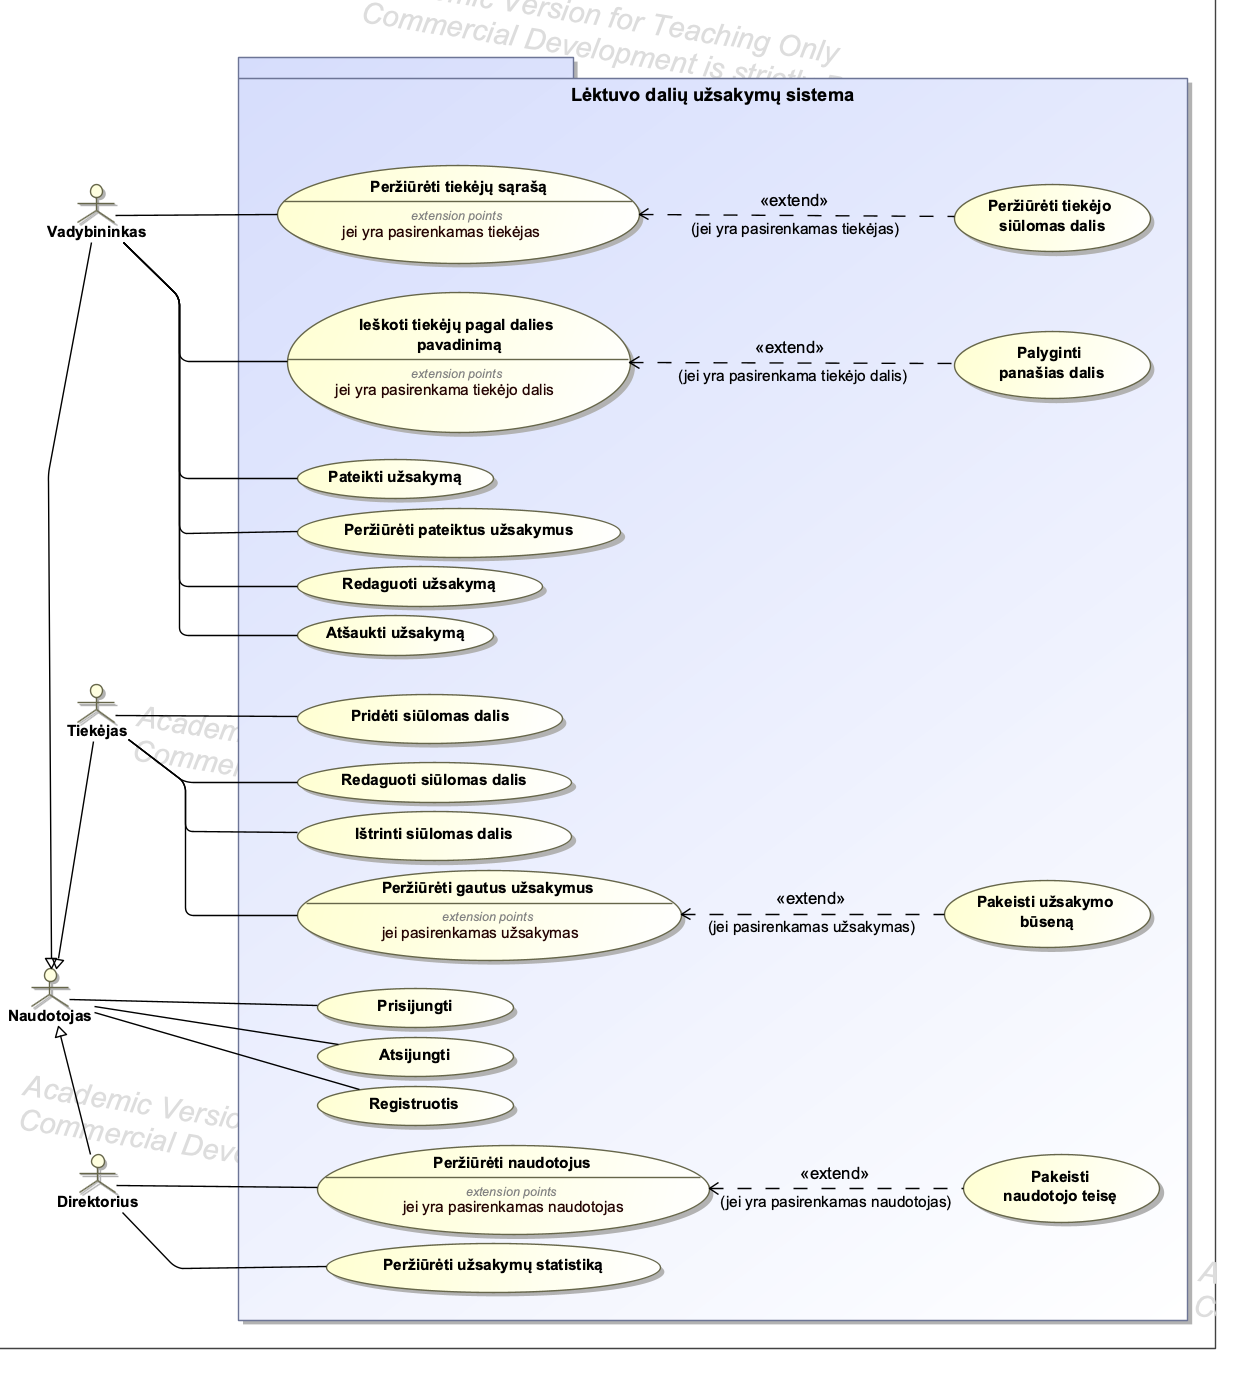
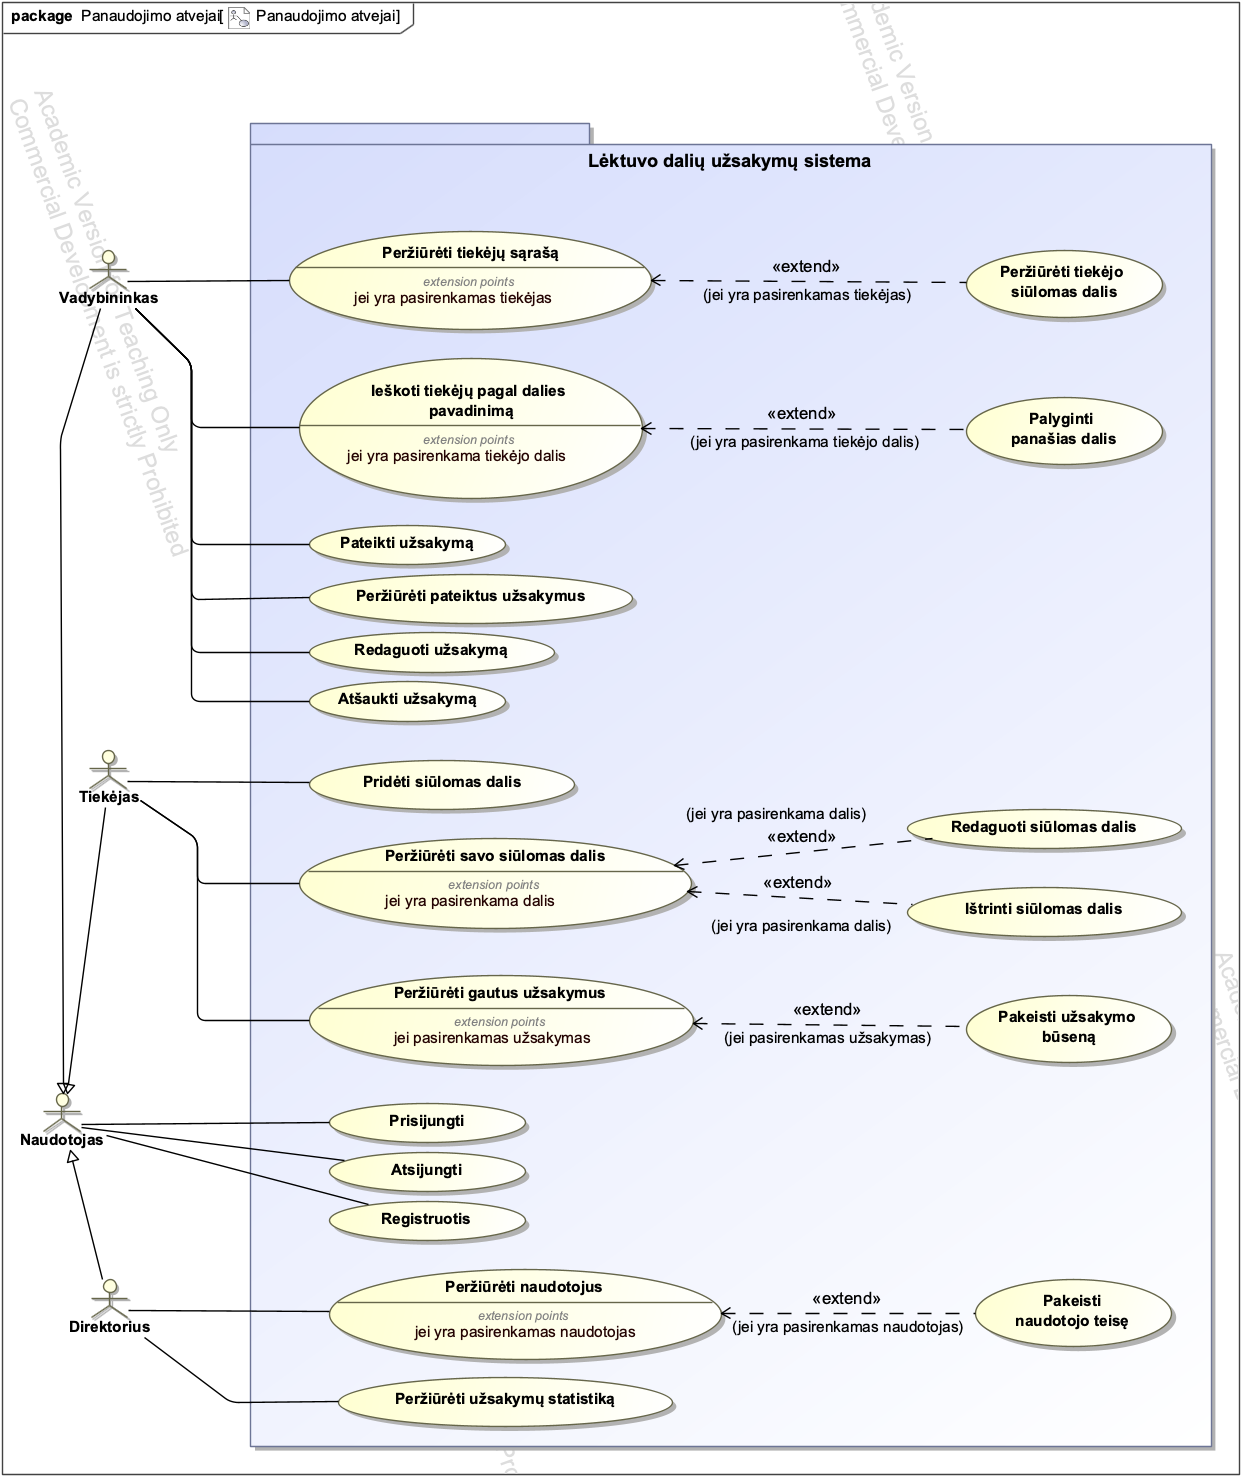
daliu paieska puslapis

diff --git a/vadybininkas/daliu_paieska.php b/vadybininkas/daliu_paieska.php
@@ -1,0 +1,213 @@
+<?php
+require __DIR__ . '/../config/db.php';
+require __DIR__ . '/../includes/auth.php';
+
+checkRole('Vadybininkas');
+
+$q       = trim($_GET['q'] ?? '');
+$dalisId = (int)($_GET['dalis'] ?? 0);
+
+$rikiavimai = [
+    'kaina'       => 'p.kaina ASC',
+    'pavadinimas' => 'p.pavadinimas ASC',
+    'gamintojas'  => 'p.gamintojas ASC, p.kaina ASC',
+    'modelis'     => 'p.modelis ASC, p.kaina ASC',
+];
+$rik = array_key_exists($_GET['rik'] ?? '', $rikiavimai) ? $_GET['rik'] : 'kaina';
+
+$laukai = 'p.prekes_id, p.pavadinimas, p.gamintojas, p.modelis, p.kaina, p.kiekis, p.tiekejo_id,
+           COALESCE(n.pavadinimas, CONCAT(n.vardas, " ", n.pavarde)) AS tiekejas';
+
+function likeReiksme(string $s): string {
+    return '%' . addcslashes($s, '%_\\') . '%';
+}
+
+// --- Paieška arba atsitiktinės dalys ---
+if ($q !== '') {
+    $stmt = $pdo->prepare(
+        "SELECT $laukai
+         FROM preke p JOIN naudotojas n ON n.naudotojo_id = p.tiekejo_id
+         WHERE p.pavadinimas LIKE :q1 OR p.gamintojas LIKE :q2 OR p.modelis LIKE :q3
+         ORDER BY {$rikiavimai[$rik]}"
+    );
+    $like = likeReiksme($q);
+    $stmt->execute(['q1' => $like, 'q2' => $like, 'q3' => $like]);
+    $dalys = $stmt->fetchAll();
+} else {
+    $dalys = $pdo->query(
+        "SELECT $laukai
+         FROM preke p JOIN naudotojas n ON n.naudotojo_id = p.tiekejo_id
+         ORDER BY RAND() LIMIT 12"
+    )->fetchAll();
+}
+
+// --- «extend» Palyginti panašias dalis ---
+$pasirinkta = null;
+$panasios   = [];
+
+if ($dalisId) {
+    $stmt = $pdo->prepare("SELECT $laukai FROM preke p JOIN naudotojas n ON n.naudotojo_id = p.tiekejo_id WHERE p.prekes_id = ?");
+    $stmt->execute([$dalisId]);
+    $pasirinkta = $stmt->fetch() ?: null;
+}
+
+if ($pasirinkta) {
+    // Pavadinimo žodžiai (bent 3 raidės) – kiekvienas sutapęs žodis didina panašumą
+    $zodziai = array_unique(array_filter(
+        preg_split('/[^\p{L}\p{N}]+/u', mb_strtolower($pasirinkta['pavadinimas'])),
+        fn($z) => mb_strlen($z) >= 3
+    ));
+
+    $balas  = [];
+    $params = [];
+    foreach (array_values($zodziai) as $i => $z) {
+        $balas[]        = "(p.pavadinimas LIKE :z$i)";
+        $params["z$i"] = likeReiksme($z);
+    }
+    // Tas pats modelis ar gamintojas – stiprus panašumo požymis
+    // (COALESCE, nes palyginimas su NULL grąžintų NULL ir „sugadintų“ visą sumą)
+    $balas[] = 'COALESCE(p.modelis = :modelis, 0) * 3';
+    $balas[] = 'COALESCE(p.gamintojas = :gamintojas, 0)';
+    $params['modelis']    = $pasirinkta['modelis'];
+    $params['gamintojas'] = $pasirinkta['gamintojas'];
+    $params['tiekejas']   = $pasirinkta['tiekejo_id'];
+
+    $balasSql = implode(' + ', $balas);
+    $stmt = $pdo->prepare(
+        "SELECT * FROM (
+             SELECT $laukai, ($balasSql) AS panasumas
+             FROM preke p JOIN naudotojas n ON n.naudotojo_id = p.tiekejo_id
+             WHERE p.tiekejo_id <> :tiekejas
+         ) x
+         WHERE panasumas > 0
+         ORDER BY " . str_replace('p.', 'x.', $rikiavimai[$rik]) . "
+         LIMIT 20"
+    );
+    $stmt->execute($params);
+    $panasios = $stmt->fetchAll();
+}
+
+// Pagalbinės funkcijos
+function nuoroda(array $keisti): string {
+    $p = array_merge(['q' => $_GET['q'] ?? null, 'rik' => $_GET['rik'] ?? null, 'dalis' => $_GET['dalis'] ?? null], $keisti);
+    return '?' . http_build_query(array_filter($p, fn($v) => $v !== null && $v !== ''));
+}
+function kaina($k): string {
+    return number_format((float)$k, 2, ',', ' ') . ' €';
+}
+function kiekis($k): string {
+    return (int)$k > 0 ? (int)$k . ' vnt.' : '<span class="text-red-600">Nėra</span>';
+}
+
+$puslapioPavadinimas = 'Dalių paieška';
+require __DIR__ . '/../includes/header.php';
+?>
+
+<h1 class="text-2xl font-semibold mb-6">Dalių paieška</h1>
+
+<!-- Paieškos juosta -->
+<form method="get" class="mb-8 flex flex-col sm:flex-row gap-3">
+    <input type="search" name="q" value="<?= htmlspecialchars($q) ?>" autofocus
+           placeholder="Įveskite dalies pavadinimą, gamintoją ar modelį…"
+           class="flex-1 rounded-lg border border-slate-300 bg-white px-4 py-2.5 focus:outline-none focus:ring-2 focus:ring-sky-500">
+    <select name="rik" class="rounded-lg border border-slate-300 bg-white px-3 py-2.5">
+        <option value="kaina" <?= $rik === 'kaina' ? 'selected' : '' ?>>Pigiausios pirma</option>
+        <option value="pavadinimas" <?= $rik === 'pavadinimas' ? 'selected' : '' ?>>Pagal pavadinimą</option>
+        <option value="gamintojas" <?= $rik === 'gamintojas' ? 'selected' : '' ?>>Pagal gamintoją</option>
+        <option value="modelis" <?= $rik === 'modelis' ? 'selected' : '' ?>>Pagal modelį</option>
+    </select>
+    <button class="rounded-lg bg-sky-600 px-6 py-2.5 font-medium text-white hover:bg-sky-700">Ieškoti</button>
+</form>
+
+<?php if ($dalisId && !$pasirinkta): ?>
+    <div class="mb-6 rounded-lg bg-red-50 border border-red-200 px-4 py-3 text-sm text-red-700">Tokia dalis nerasta.</div>
+<?php endif; ?>
+
+<!-- Palyginimas -->
+<?php if ($pasirinkta): ?>
+    <section class="mb-10 bg-white rounded-xl shadow-sm border border-sky-200">
+        <div class="flex items-start justify-between gap-4 px-5 py-4 border-b border-slate-200">
+            <div>
+                <h2 class="text-lg font-semibold">Palyginimas: <?= htmlspecialchars($pasirinkta['pavadinimas']) ?></h2>
+                <p class="text-sm text-slate-500">Pasirinkta dalis ir panašios kitų tiekėjų dalys</p>
+            </div>
+            <a href="<?= htmlspecialchars(nuoroda(['dalis' => null])) ?>" class="text-sm text-slate-500 hover:text-slate-800">✕ Uždaryti</a>
+        </div>
+
+        <?php
+        $visos   = array_merge([$pasirinkta], $panasios);
+        $pigiausia = min(array_column($visos, 'kaina'));
+        ?>
+        <div class="overflow-x-auto">
+            <table class="w-full text-sm">
+                <thead class="bg-slate-50 text-left text-slate-600">
+                    <tr>
+                        <th class="px-5 py-3 font-medium">Pavadinimas</th>
+                        <th class="px-5 py-3 font-medium">Tiekėjas</th>
+                        <th class="px-5 py-3 font-medium">Gamintojas</th>
+                        <th class="px-5 py-3 font-medium">Modelis</th>
+                        <th class="px-5 py-3 font-medium text-right">Kaina</th>
+                        <th class="px-5 py-3 font-medium text-right">Sandėlyje</th>
+                    </tr>
+                </thead>
+                <tbody class="divide-y divide-slate-100">
+                    <?php foreach ($visos as $i => $d): ?>
+                        <tr class="<?= $i === 0 ? 'bg-sky-50' : 'hover:bg-slate-50' ?>">
+                            <td class="px-5 py-3 font-medium">
+                                <?= htmlspecialchars($d['pavadinimas']) ?>
+                                <?php if ($i === 0): ?><span class="ml-1 rounded bg-sky-600 px-1.5 py-0.5 text-xs text-white">pasirinkta</span><?php endif; ?>
+                            </td>
+                            <td class="px-5 py-3">
+                                <a href="tiekejai.php?id=<?= (int)$d['tiekejo_id'] ?>" class="text-sky-700 hover:underline"><?= htmlspecialchars($d['tiekejas']) ?></a>
+                            </td>
+                            <td class="px-5 py-3"><?= htmlspecialchars($d['gamintojas'] ?? '—') ?></td>
+                            <td class="px-5 py-3"><?= htmlspecialchars($d['modelis'] ?? '—') ?></td>
+                            <td class="px-5 py-3 text-right whitespace-nowrap <?= (float)$d['kaina'] == (float)$pigiausia && count($visos) > 1 ? 'text-green-700 font-semibold' : '' ?>">
+                                <?= kaina($d['kaina']) ?>
+                            </td>
+                            <td class="px-5 py-3 text-right whitespace-nowrap"><?= kiekis($d['kiekis']) ?></td>
+                        </tr>
+                    <?php endforeach; ?>
+                </tbody>
+            </table>
+        </div>
+
+        <?php if (!$panasios): ?>
+            <p class="px-5 py-4 text-sm text-slate-500 border-t border-slate-100">Kiti tiekėjai panašių dalių nesiūlo.</p>
+        <?php endif; ?>
+    </section>
+<?php endif; ?>
+
+<!-- Rezultatai -->
+<h2 class="text-sm font-medium uppercase tracking-wide text-slate-500 mb-3">
+    <?= $q !== '' ? 'Rasta dalių: ' . count($dalys) : 'Atsitiktinės dalys' ?>
+</h2>
+
+<?php if (!$dalys): ?>
+    <div class="rounded-xl border-2 border-dashed border-slate-300 p-10 text-center text-slate-500">
+        <?= $q !== '' ? 'Pagal „' . htmlspecialchars($q) . '“ nieko nerasta.' : 'Dalių sistemoje kol kas nėra.' ?>
+    </div>
+<?php else: ?>
+    <div class="grid gap-4 sm:grid-cols-2 lg:grid-cols-3">
+        <?php foreach ($dalys as $d): ?>
+            <?php $aktyvi = $pasirinkta && (int)$d['prekes_id'] === (int)$pasirinkta['prekes_id']; ?>
+            <a href="<?= htmlspecialchars(nuoroda(['dalis' => (int)$d['prekes_id']])) ?>"
+               class="block rounded-xl bg-white p-5 shadow-sm border transition <?= $aktyvi ? 'border-sky-500 ring-2 ring-sky-200' : 'border-slate-200 hover:border-sky-400 hover:shadow' ?>">
+                <div class="flex items-start justify-between gap-3">
+                    <h3 class="font-semibold text-slate-800"><?= htmlspecialchars($d['pavadinimas']) ?></h3>
+                    <span class="shrink-0 font-semibold text-sky-700"><?= kaina($d['kaina']) ?></span>
+                </div>
+                <p class="mt-1 text-sm text-slate-500">
+                    <?= htmlspecialchars($d['gamintojas'] ?? '—') ?> · <?= htmlspecialchars($d['modelis'] ?? '—') ?>
+                </p>
+                <div class="mt-3 flex items-center justify-between text-sm">
+                    <span class="text-slate-600"><?= htmlspecialchars($d['tiekejas']) ?></span>
+                    <span><?= kiekis($d['kiekis']) ?></span>
+                </div>
+                <p class="mt-3 text-xs text-sky-600">Palyginti su kitais tiekėjais →</p>
+            </a>
+        <?php endforeach; ?>
+    </div>
+<?php endif; ?>
+
+<?php require __DIR__ . '/../includes/footer.php'; ?>

diff --git a/index.php b/index.php
@@ -7,7 +7,7 @@ checkRole(); // bet kuris prisijungęs naudotojas
 $korteles = [
     'Vadybininkas' => [
         ['Tiekėjai', 'Peržiūrėkite tiekėjų sąrašą ir jų siūlomas dalis.', 'vadybininkas/tiekejai.php'],
-        ['Dalių paieška', 'Ieškokite dalių pagal pavadinimą ir palyginkite pasiūlymus.', 'vadybininkas/paieska.php'],
+        ['Dalių paieška', 'Ieškokite dalių pagal pavadinimą ir palyginkite pasiūlymus.', 'vadybininkas/daliu_paieska.php'],
         ['Mano užsakymai', 'Peržiūrėkite, redaguokite ar atšaukite pateiktus užsakymus.', 'vadybininkas/uzsakymai.php'],
     ],
     'Tiekejas' => [

diff --git a/includes/header.php b/includes/header.php
@@ -8,7 +8,7 @@ $base = '/lektuvu_dalys';
 $meniu = [
     'Vadybininkas' => [
         'Tiekėjai'        => '/vadybininkas/tiekejai.php',
-        'Dalių paieška'   => '/vadybininkas/paieska.php',
+        'Dalių paieška'   => '/vadybininkas/daliu_paieska.php',
         'Mano užsakymai'  => '/vadybininkas/uzsakymai.php',
     ],
     'Tiekejas' => [
